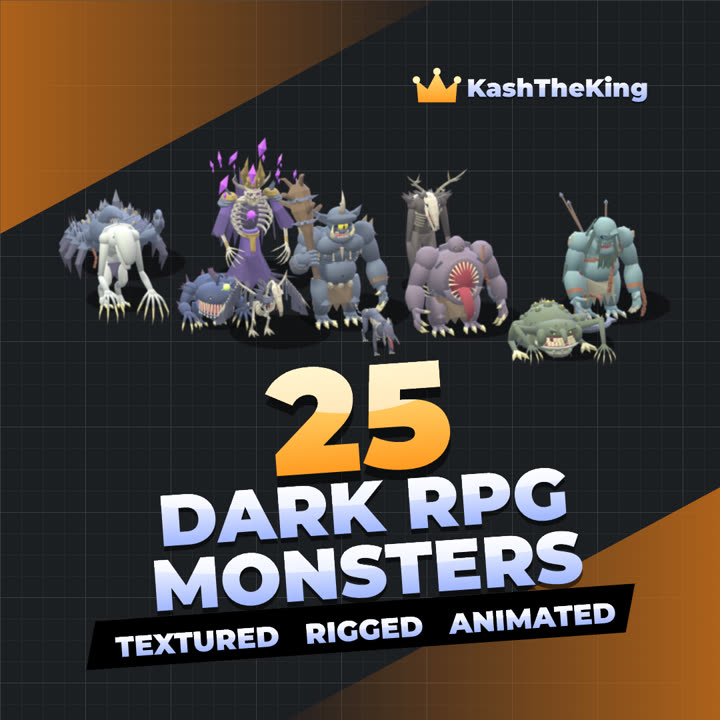
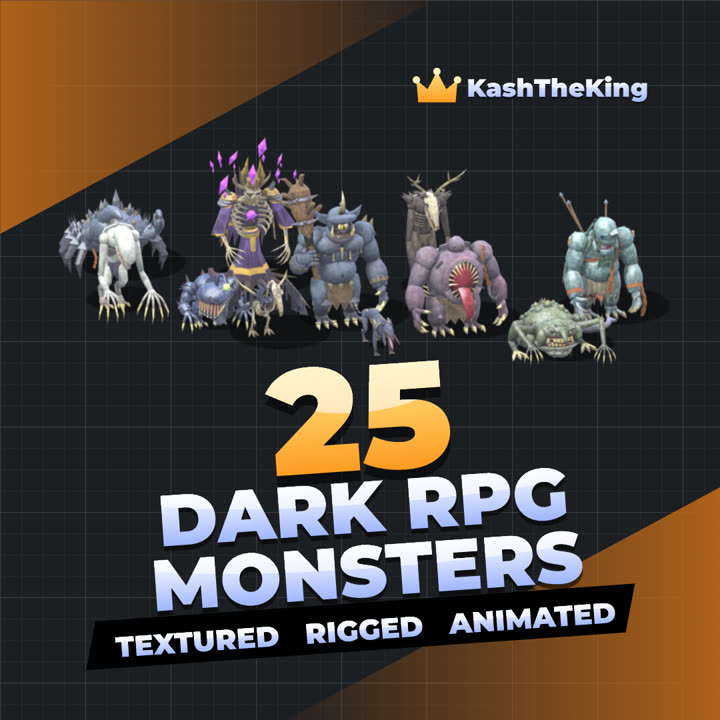
Shop: clean Robux prices (R$1,300 / R$6,500), Lifetime Pack R$50,000

diff --git a/shop/index.html b/shop/index.html
@@ -157,7 +157,7 @@
                 <span class="badge first">Best value</span>
                 <h2>Lifetime Pack</h2>
                 <p>Every asset pack on this page, plus every pack I release in the future. Buy once, download the new packs as they come out. Includes FBX, Blender and Roblox files.</p>
-                <div class="buy"><span class="price">$199.00<small class="robux">or R$ 52,369</small></span><span class="view">Get it on ClearlyDev</span></div>
+                <div class="buy"><span class="price">$199.00<small class="robux">or R$ 50,000</small></span><span class="view">Get it on ClearlyDev</span></div>
             </div>
         </a>
         <section id="featured" hidden aria-labelledby="featured-title">
@@ -183,8 +183,10 @@
         const search = document.getElementById("search"), chips = document.getElementById("chips");
         let packs = [], tag = "All";
         const money = p => "$" + p.toFixed(2);
-        // Robux alternative: the DevEx value of the dollar price ($0.0038 per Robux), rounded up. No marketplace tax added.
-        const DEVEX = 0.0038, robux = p => `<small class="robux">or R$ ${Math.ceil(p / DEVEX - 1e-9).toLocaleString("en-US")}</small>`;
+        // Robux alternative: the DevEx value of the dollar price ($0.0038 per Robux). No marketplace tax added.
+        // Rounded DOWN to a clean number (Kash: "fine with losing a little bit of robux to make it clean").
+        const rbx = p => { const r = p / 0.0038; if (p === 14.99) return "3,945";   /* Kash kept this one as it was */ return (r < 5000 ? Math.floor(r / 100) * 100 : r < 20000 ? Math.floor(r / 500) * 500 : Math.floor(r / 5000) * 5000).toLocaleString("en-US"); };
+        const robux = p => `<small class="robux">or R$ ${rbx(p)}</small>`;
         // The next drop: when the coming-soon packs go on sale. Change this one line to move it.
         const DROP = new Date("2026-10-09T12:00:00-07:00");   // Friday 10/9/2026, noon Pacific
         const DROP_DAY = DROP.toLocaleDateString("en-US", { weekday: "long", timeZone: "America/Los_Angeles" }) + " " + DROP.toLocaleDateString("en-US", { month: "numeric", day: "numeric", year: "numeric", timeZone: "America/Los_Angeles" });
@@ -221,7 +223,7 @@
             const el = document.createElement("a");
             el.className = "card";
             el.href = p.page + "/";
-            el.setAttribute("aria-label", `${p.name}, ${money(p.price)} or ${Math.ceil(p.price / DEVEX - 1e-9).toLocaleString("en-US")} Robux. View pack`);
+            el.setAttribute("aria-label", `${p.name}, ${money(p.price)} or ${rbx(p.price)} Robux. View pack`);
             el.innerHTML = `
                 <img src="${p.image}" alt="" loading="lazy" width="540" height="540">
                 <div class="body">

diff --git a/shop/100-christmas-decorations/index.html b/shop/100-christmas-decorations/index.html
@@ -113,8 +113,8 @@
         const slug = window.PACK_SLUG || new URLSearchParams(location.search).get("p");   // static pages (/shop/<page>/) set PACK_SLUG
         const esc = s => String(s).replace(/[&<>"]/g, c => ({ "&": "&amp;", "<": "&lt;", ">": "&gt;", '"': "&quot;" }[c]));
         fetch("../packs.json").then(r => r.json()).then(packs => {
-            // Robux alternative: the DevEx value of the dollar price ($0.0038 per Robux), rounded up, no marketplace tax
-            const robux = d => Math.ceil(d / 0.0038 - 1e-9).toLocaleString("en-US");
+            // Robux alternative: the DevEx value of the dollar price ($0.0038 per Robux), no marketplace tax
+            const robux = d => { const r = d / 0.0038; if (d === 14.99) return "3,945";   /* Kash kept this one as it was */ return (r < 5000 ? Math.floor(r / 100) * 100 : r < 20000 ? Math.floor(r / 500) * 500 : Math.floor(r / 5000) * 5000).toLocaleString("en-US"); }   // rounded down to a clean number
             const p = packs.find(x => x.slug === slug || x.page === slug);
             if (p && !window.PACK_SLUG && p.page) { location.replace("../" + p.page + "/"); return; }   // old ?p= links go to the pack's own URL
             if (!p) { document.getElementById("missing").hidden = false; return; }

diff --git a/shop/100-cute-cars/index.html b/shop/100-cute-cars/index.html
@@ -113,8 +113,8 @@
         const slug = window.PACK_SLUG || new URLSearchParams(location.search).get("p");   // static pages (/shop/<page>/) set PACK_SLUG
         const esc = s => String(s).replace(/[&<>"]/g, c => ({ "&": "&amp;", "<": "&lt;", ">": "&gt;", '"': "&quot;" }[c]));
         fetch("../packs.json").then(r => r.json()).then(packs => {
-            // Robux alternative: the DevEx value of the dollar price ($0.0038 per Robux), rounded up, no marketplace tax
-            const robux = d => Math.ceil(d / 0.0038 - 1e-9).toLocaleString("en-US");
+            // Robux alternative: the DevEx value of the dollar price ($0.0038 per Robux), no marketplace tax
+            const robux = d => { const r = d / 0.0038; if (d === 14.99) return "3,945";   /* Kash kept this one as it was */ return (r < 5000 ? Math.floor(r / 100) * 100 : r < 20000 ? Math.floor(r / 500) * 500 : Math.floor(r / 5000) * 5000).toLocaleString("en-US"); }   // rounded down to a clean number
             const p = packs.find(x => x.slug === slug || x.page === slug);
             if (p && !window.PACK_SLUG && p.page) { location.replace("../" + p.page + "/"); return; }   // old ?p= links go to the pack's own URL
             if (!p) { document.getElementById("missing").hidden = false; return; }

diff --git a/shop/100-cute-foliage/index.html b/shop/100-cute-foliage/index.html
@@ -113,8 +113,8 @@
         const slug = window.PACK_SLUG || new URLSearchParams(location.search).get("p");   // static pages (/shop/<page>/) set PACK_SLUG
         const esc = s => String(s).replace(/[&<>"]/g, c => ({ "&": "&amp;", "<": "&lt;", ">": "&gt;", '"': "&quot;" }[c]));
         fetch("../packs.json").then(r => r.json()).then(packs => {
-            // Robux alternative: the DevEx value of the dollar price ($0.0038 per Robux), rounded up, no marketplace tax
-            const robux = d => Math.ceil(d / 0.0038 - 1e-9).toLocaleString("en-US");
+            // Robux alternative: the DevEx value of the dollar price ($0.0038 per Robux), no marketplace tax
+            const robux = d => { const r = d / 0.0038; if (d === 14.99) return "3,945";   /* Kash kept this one as it was */ return (r < 5000 ? Math.floor(r / 100) * 100 : r < 20000 ? Math.floor(r / 500) * 500 : Math.floor(r / 5000) * 5000).toLocaleString("en-US"); }   // rounded down to a clean number
             const p = packs.find(x => x.slug === slug || x.page === slug);
             if (p && !window.PACK_SLUG && p.page) { location.replace("../" + p.page + "/"); return; }   // old ?p= links go to the pack's own URL
             if (!p) { document.getElementById("missing").hidden = false; return; }

diff --git a/shop/100-cute-fruits/index.html b/shop/100-cute-fruits/index.html
@@ -113,8 +113,8 @@
         const slug = window.PACK_SLUG || new URLSearchParams(location.search).get("p");   // static pages (/shop/<page>/) set PACK_SLUG
         const esc = s => String(s).replace(/[&<>"]/g, c => ({ "&": "&amp;", "<": "&lt;", ">": "&gt;", '"': "&quot;" }[c]));
         fetch("../packs.json").then(r => r.json()).then(packs => {
-            // Robux alternative: the DevEx value of the dollar price ($0.0038 per Robux), rounded up, no marketplace tax
-            const robux = d => Math.ceil(d / 0.0038 - 1e-9).toLocaleString("en-US");
+            // Robux alternative: the DevEx value of the dollar price ($0.0038 per Robux), no marketplace tax
+            const robux = d => { const r = d / 0.0038; if (d === 14.99) return "3,945";   /* Kash kept this one as it was */ return (r < 5000 ? Math.floor(r / 100) * 100 : r < 20000 ? Math.floor(r / 500) * 500 : Math.floor(r / 5000) * 5000).toLocaleString("en-US"); }   // rounded down to a clean number
             const p = packs.find(x => x.slug === slug || x.page === slug);
             if (p && !window.PACK_SLUG && p.page) { location.replace("../" + p.page + "/"); return; }   // old ?p= links go to the pack's own URL
             if (!p) { document.getElementById("missing").hidden = false; return; }

diff --git a/shop/100-cute-furniture/index.html b/shop/100-cute-furniture/index.html
@@ -113,8 +113,8 @@
         const slug = window.PACK_SLUG || new URLSearchParams(location.search).get("p");   // static pages (/shop/<page>/) set PACK_SLUG
         const esc = s => String(s).replace(/[&<>"]/g, c => ({ "&": "&amp;", "<": "&lt;", ">": "&gt;", '"': "&quot;" }[c]));
         fetch("../packs.json").then(r => r.json()).then(packs => {
-            // Robux alternative: the DevEx value of the dollar price ($0.0038 per Robux), rounded up, no marketplace tax
-            const robux = d => Math.ceil(d / 0.0038 - 1e-9).toLocaleString("en-US");
+            // Robux alternative: the DevEx value of the dollar price ($0.0038 per Robux), no marketplace tax
+            const robux = d => { const r = d / 0.0038; if (d === 14.99) return "3,945";   /* Kash kept this one as it was */ return (r < 5000 ? Math.floor(r / 100) * 100 : r < 20000 ? Math.floor(r / 500) * 500 : Math.floor(r / 5000) * 5000).toLocaleString("en-US"); }   // rounded down to a clean number
             const p = packs.find(x => x.slug === slug || x.page === slug);
             if (p && !window.PACK_SLUG && p.page) { location.replace("../" + p.page + "/"); return; }   // old ?p= links go to the pack's own URL
             if (!p) { document.getElementById("missing").hidden = false; return; }

diff --git a/shop/100-cute-guns/index.html b/shop/100-cute-guns/index.html
@@ -113,8 +113,8 @@
         const slug = window.PACK_SLUG || new URLSearchParams(location.search).get("p");   // static pages (/shop/<page>/) set PACK_SLUG
         const esc = s => String(s).replace(/[&<>"]/g, c => ({ "&": "&amp;", "<": "&lt;", ">": "&gt;", '"': "&quot;" }[c]));
         fetch("../packs.json").then(r => r.json()).then(packs => {
-            // Robux alternative: the DevEx value of the dollar price ($0.0038 per Robux), rounded up, no marketplace tax
-            const robux = d => Math.ceil(d / 0.0038 - 1e-9).toLocaleString("en-US");
+            // Robux alternative: the DevEx value of the dollar price ($0.0038 per Robux), no marketplace tax
+            const robux = d => { const r = d / 0.0038; if (d === 14.99) return "3,945";   /* Kash kept this one as it was */ return (r < 5000 ? Math.floor(r / 100) * 100 : r < 20000 ? Math.floor(r / 500) * 500 : Math.floor(r / 5000) * 5000).toLocaleString("en-US"); }   // rounded down to a clean number
             const p = packs.find(x => x.slug === slug || x.page === slug);
             if (p && !window.PACK_SLUG && p.page) { location.replace("../" + p.page + "/"); return; }   // old ?p= links go to the pack's own URL
             if (!p) { document.getElementById("missing").hidden = false; return; }

diff --git a/shop/100-cute-tycoon-assets/index.html b/shop/100-cute-tycoon-assets/index.html
@@ -113,8 +113,8 @@
         const slug = window.PACK_SLUG || new URLSearchParams(location.search).get("p");   // static pages (/shop/<page>/) set PACK_SLUG
         const esc = s => String(s).replace(/[&<>"]/g, c => ({ "&": "&amp;", "<": "&lt;", ">": "&gt;", '"': "&quot;" }[c]));
         fetch("../packs.json").then(r => r.json()).then(packs => {
-            // Robux alternative: the DevEx value of the dollar price ($0.0038 per Robux), rounded up, no marketplace tax
-            const robux = d => Math.ceil(d / 0.0038 - 1e-9).toLocaleString("en-US");
+            // Robux alternative: the DevEx value of the dollar price ($0.0038 per Robux), no marketplace tax
+            const robux = d => { const r = d / 0.0038; if (d === 14.99) return "3,945";   /* Kash kept this one as it was */ return (r < 5000 ? Math.floor(r / 100) * 100 : r < 20000 ? Math.floor(r / 500) * 500 : Math.floor(r / 5000) * 5000).toLocaleString("en-US"); }   // rounded down to a clean number
             const p = packs.find(x => x.slug === slug || x.page === slug);
             if (p && !window.PACK_SLUG && p.page) { location.replace("../" + p.page + "/"); return; }   // old ?p= links go to the pack's own URL
             if (!p) { document.getElementById("missing").hidden = false; return; }

diff --git a/shop/100-halloween-decorations/index.html b/shop/100-halloween-decorations/index.html
@@ -113,8 +113,8 @@
         const slug = window.PACK_SLUG || new URLSearchParams(location.search).get("p");   // static pages (/shop/<page>/) set PACK_SLUG
         const esc = s => String(s).replace(/[&<>"]/g, c => ({ "&": "&amp;", "<": "&lt;", ">": "&gt;", '"': "&quot;" }[c]));
         fetch("../packs.json").then(r => r.json()).then(packs => {
-            // Robux alternative: the DevEx value of the dollar price ($0.0038 per Robux), rounded up, no marketplace tax
-            const robux = d => Math.ceil(d / 0.0038 - 1e-9).toLocaleString("en-US");
+            // Robux alternative: the DevEx value of the dollar price ($0.0038 per Robux), no marketplace tax
+            const robux = d => { const r = d / 0.0038; if (d === 14.99) return "3,945";   /* Kash kept this one as it was */ return (r < 5000 ? Math.floor(r / 100) * 100 : r < 20000 ? Math.floor(r / 500) * 500 : Math.floor(r / 5000) * 5000).toLocaleString("en-US"); }   // rounded down to a clean number
             const p = packs.find(x => x.slug === slug || x.page === slug);
             if (p && !window.PACK_SLUG && p.page) { location.replace("../" + p.page + "/"); return; }   // old ?p= links go to the pack's own URL
             if (!p) { document.getElementById("missing").hidden = false; return; }

diff --git a/shop/100-japanese-village-assets/index.html b/shop/100-japanese-village-assets/index.html
@@ -113,8 +113,8 @@
         const slug = window.PACK_SLUG || new URLSearchParams(location.search).get("p");   // static pages (/shop/<page>/) set PACK_SLUG
         const esc = s => String(s).replace(/[&<>"]/g, c => ({ "&": "&amp;", "<": "&lt;", ">": "&gt;", '"': "&quot;" }[c]));
         fetch("../packs.json").then(r => r.json()).then(packs => {
-            // Robux alternative: the DevEx value of the dollar price ($0.0038 per Robux), rounded up, no marketplace tax
-            const robux = d => Math.ceil(d / 0.0038 - 1e-9).toLocaleString("en-US");
+            // Robux alternative: the DevEx value of the dollar price ($0.0038 per Robux), no marketplace tax
+            const robux = d => { const r = d / 0.0038; if (d === 14.99) return "3,945";   /* Kash kept this one as it was */ return (r < 5000 ? Math.floor(r / 100) * 100 : r < 20000 ? Math.floor(r / 500) * 500 : Math.floor(r / 5000) * 5000).toLocaleString("en-US"); }   // rounded down to a clean number
             const p = packs.find(x => x.slug === slug || x.page === slug);
             if (p && !window.PACK_SLUG && p.page) { location.replace("../" + p.page + "/"); return; }   // old ?p= links go to the pack's own URL
             if (!p) { document.getElementById("missing").hidden = false; return; }

diff --git a/shop/100-magic-and-treasure-items/index.html b/shop/100-magic-and-treasure-items/index.html
@@ -113,8 +113,8 @@
         const slug = window.PACK_SLUG || new URLSearchParams(location.search).get("p");   // static pages (/shop/<page>/) set PACK_SLUG
         const esc = s => String(s).replace(/[&<>"]/g, c => ({ "&": "&amp;", "<": "&lt;", ">": "&gt;", '"': "&quot;" }[c]));
         fetch("../packs.json").then(r => r.json()).then(packs => {
-            // Robux alternative: the DevEx value of the dollar price ($0.0038 per Robux), rounded up, no marketplace tax
-            const robux = d => Math.ceil(d / 0.0038 - 1e-9).toLocaleString("en-US");
+            // Robux alternative: the DevEx value of the dollar price ($0.0038 per Robux), no marketplace tax
+            const robux = d => { const r = d / 0.0038; if (d === 14.99) return "3,945";   /* Kash kept this one as it was */ return (r < 5000 ? Math.floor(r / 100) * 100 : r < 20000 ? Math.floor(r / 500) * 500 : Math.floor(r / 5000) * 5000).toLocaleString("en-US"); }   // rounded down to a clean number
             const p = packs.find(x => x.slug === slug || x.page === slug);
             if (p && !window.PACK_SLUG && p.page) { location.replace("../" + p.page + "/"); return; }   // old ?p= links go to the pack's own URL
             if (!p) { document.getElementById("missing").hidden = false; return; }

diff --git a/shop/100-pirate-assets/index.html b/shop/100-pirate-assets/index.html
@@ -113,8 +113,8 @@
         const slug = window.PACK_SLUG || new URLSearchParams(location.search).get("p");   // static pages (/shop/<page>/) set PACK_SLUG
         const esc = s => String(s).replace(/[&<>"]/g, c => ({ "&": "&amp;", "<": "&lt;", ">": "&gt;", '"': "&quot;" }[c]));
         fetch("../packs.json").then(r => r.json()).then(packs => {
-            // Robux alternative: the DevEx value of the dollar price ($0.0038 per Robux), rounded up, no marketplace tax
-            const robux = d => Math.ceil(d / 0.0038 - 1e-9).toLocaleString("en-US");
+            // Robux alternative: the DevEx value of the dollar price ($0.0038 per Robux), no marketplace tax
+            const robux = d => { const r = d / 0.0038; if (d === 14.99) return "3,945";   /* Kash kept this one as it was */ return (r < 5000 ? Math.floor(r / 100) * 100 : r < 20000 ? Math.floor(r / 500) * 500 : Math.floor(r / 5000) * 5000).toLocaleString("en-US"); }   // rounded down to a clean number
             const p = packs.find(x => x.slug === slug || x.page === slug);
             if (p && !window.PACK_SLUG && p.page) { location.replace("../" + p.page + "/"); return; }   // old ?p= links go to the pack's own URL
             if (!p) { document.getElementById("missing").hidden = false; return; }
